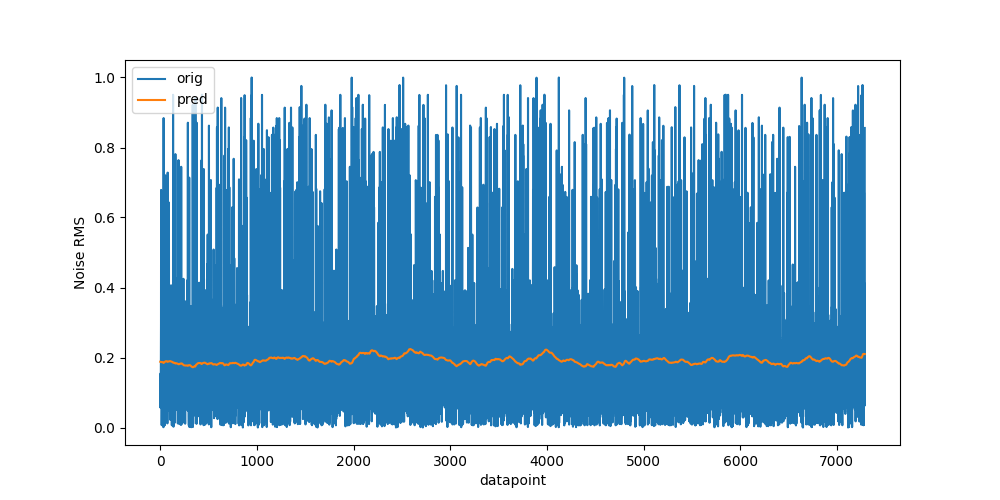
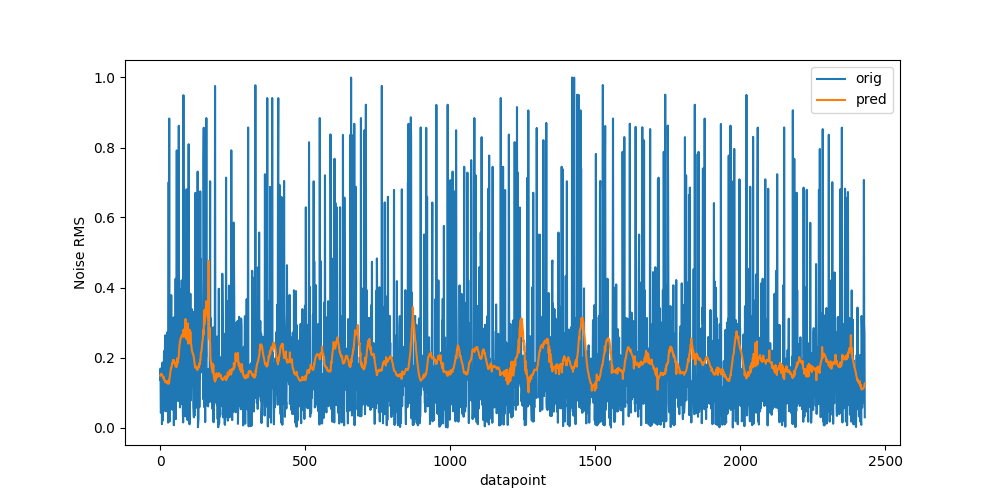
commit

diff --git a/user_inputs.py b/user_inputs.py
@@ -14,7 +14,7 @@ filter_num_coeff = [1]
 filter_dem_coeff = [1, 1]
 normalization_flag = True
 noise_gains = [0] # dB
-sought_ratio = [2, 5, 10]     # Linear  (noise RMS to music RMS)   # to determine the audio gains 
+sought_ratio = [ 3]     # Linear  (noise RMS to music RMS)   # to determine the audio gains 
 ML_type = "CNN"
 norm_feature =True
 num_noise_files = 27
